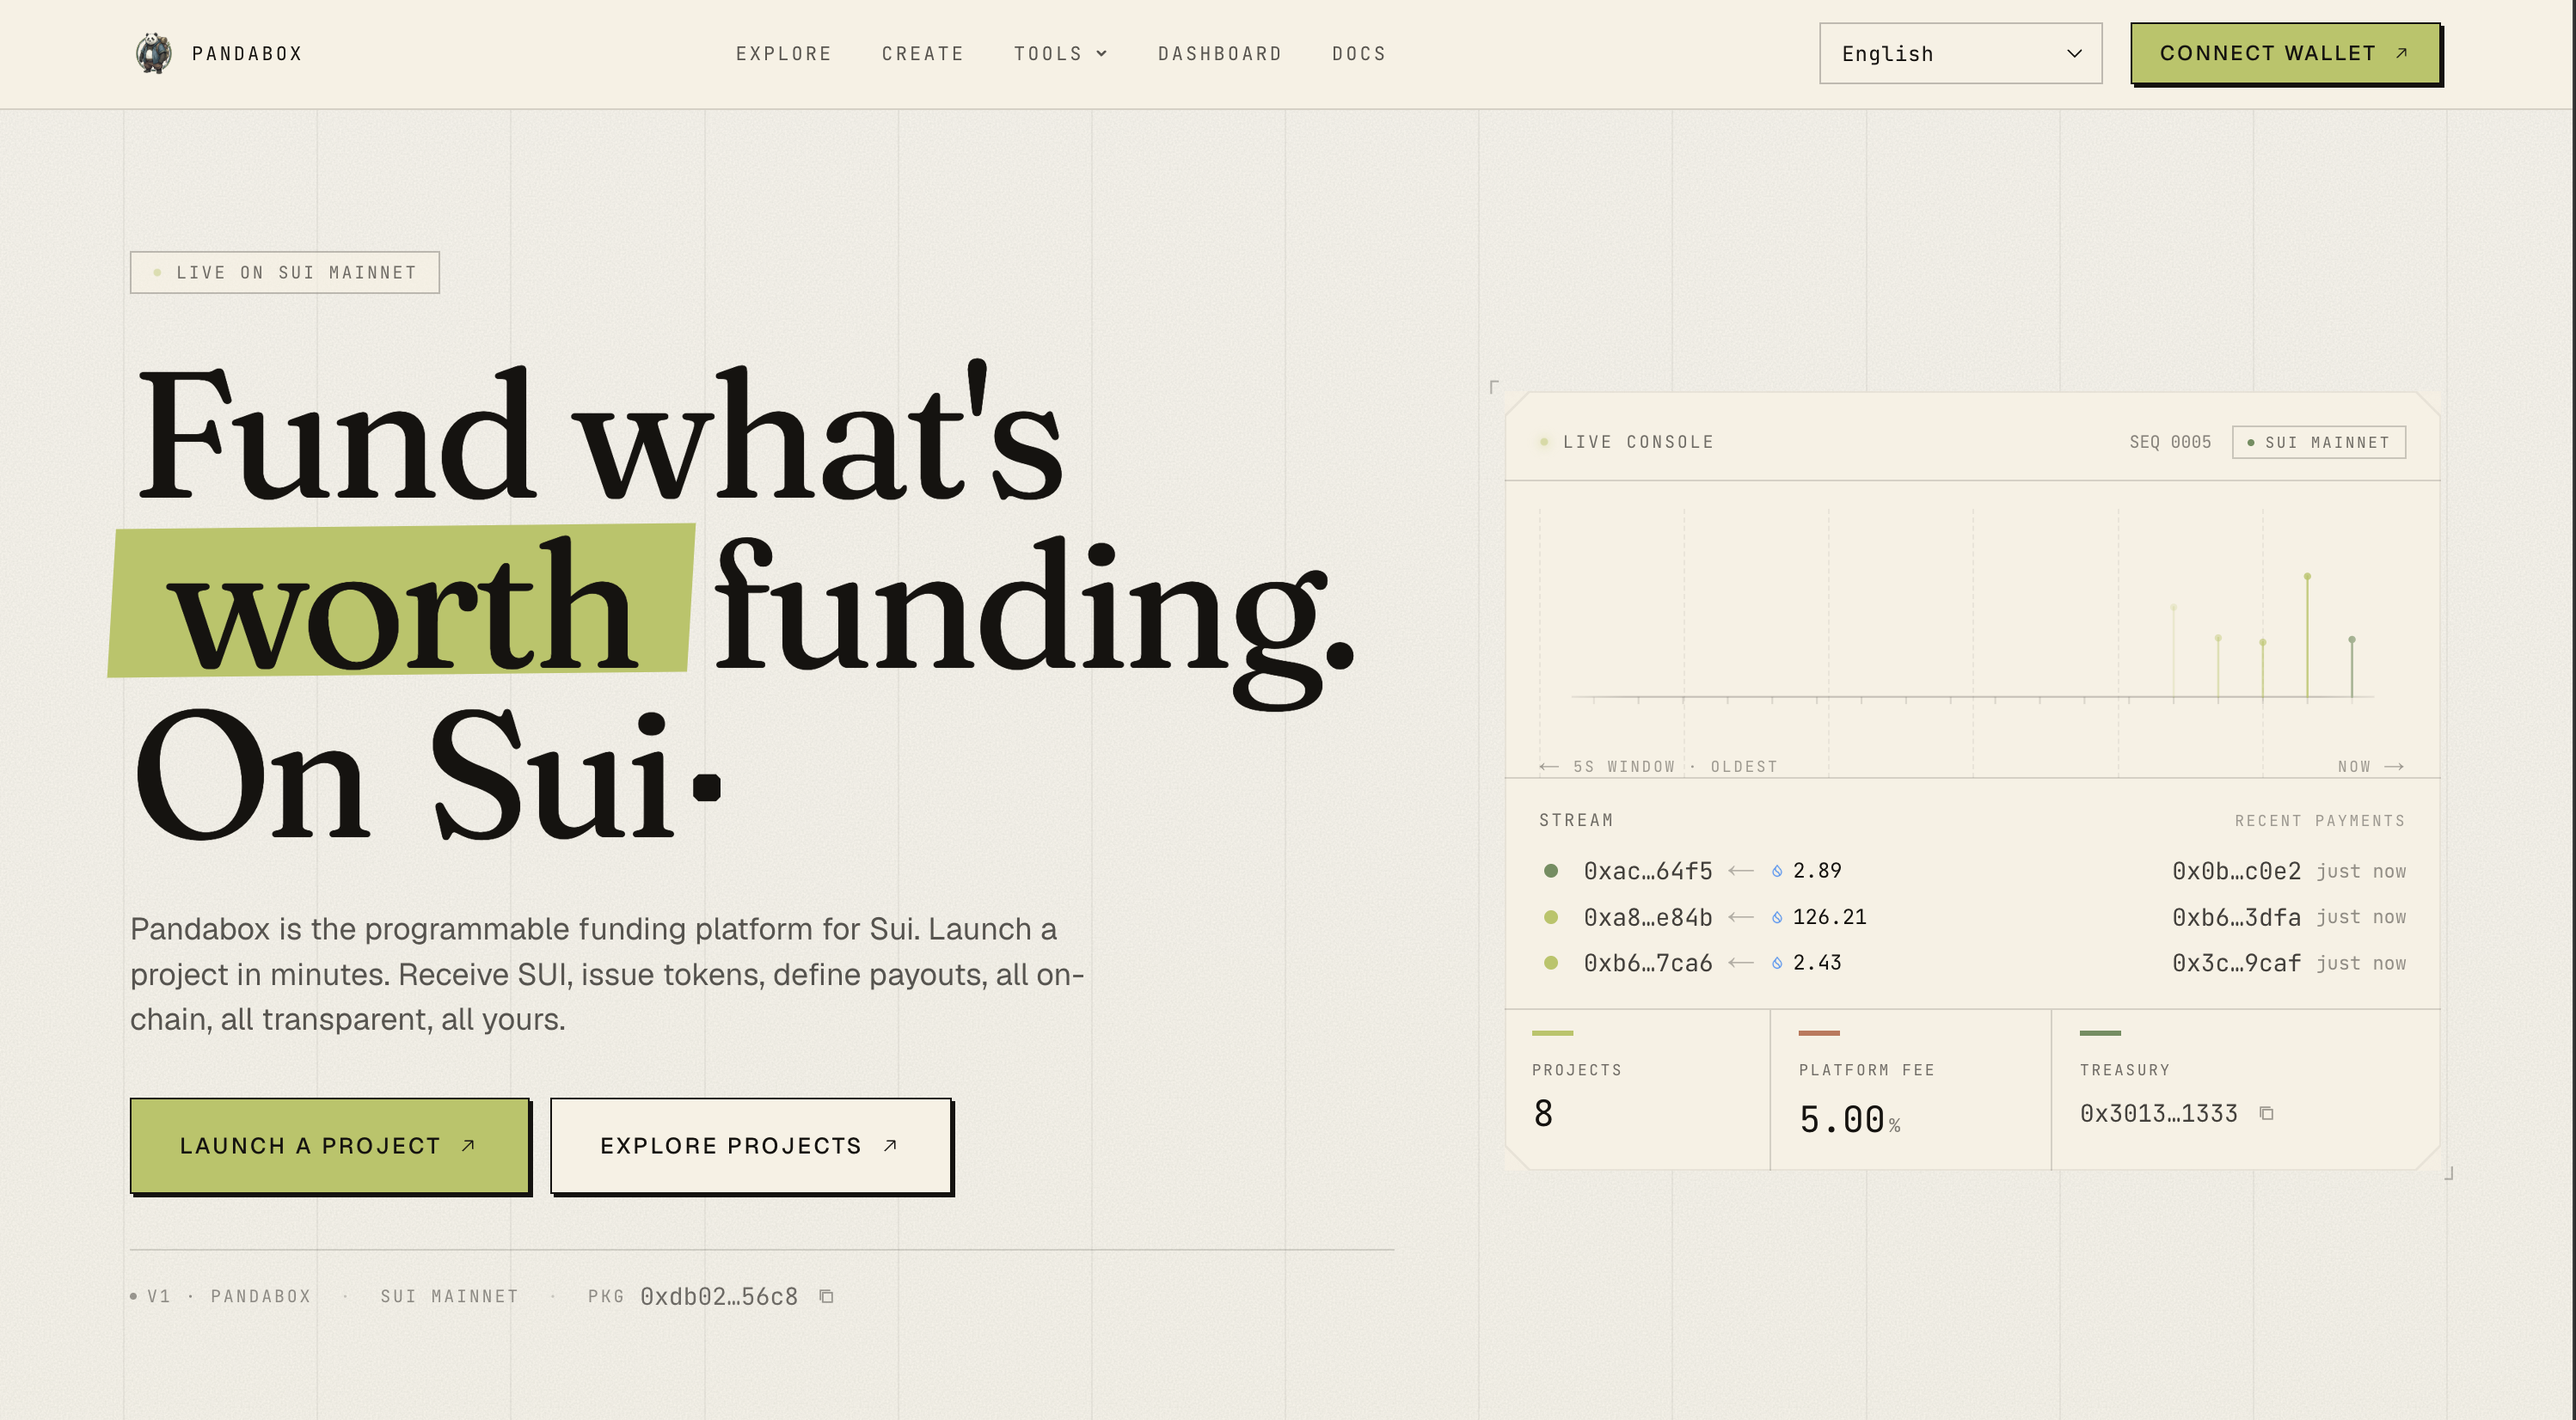
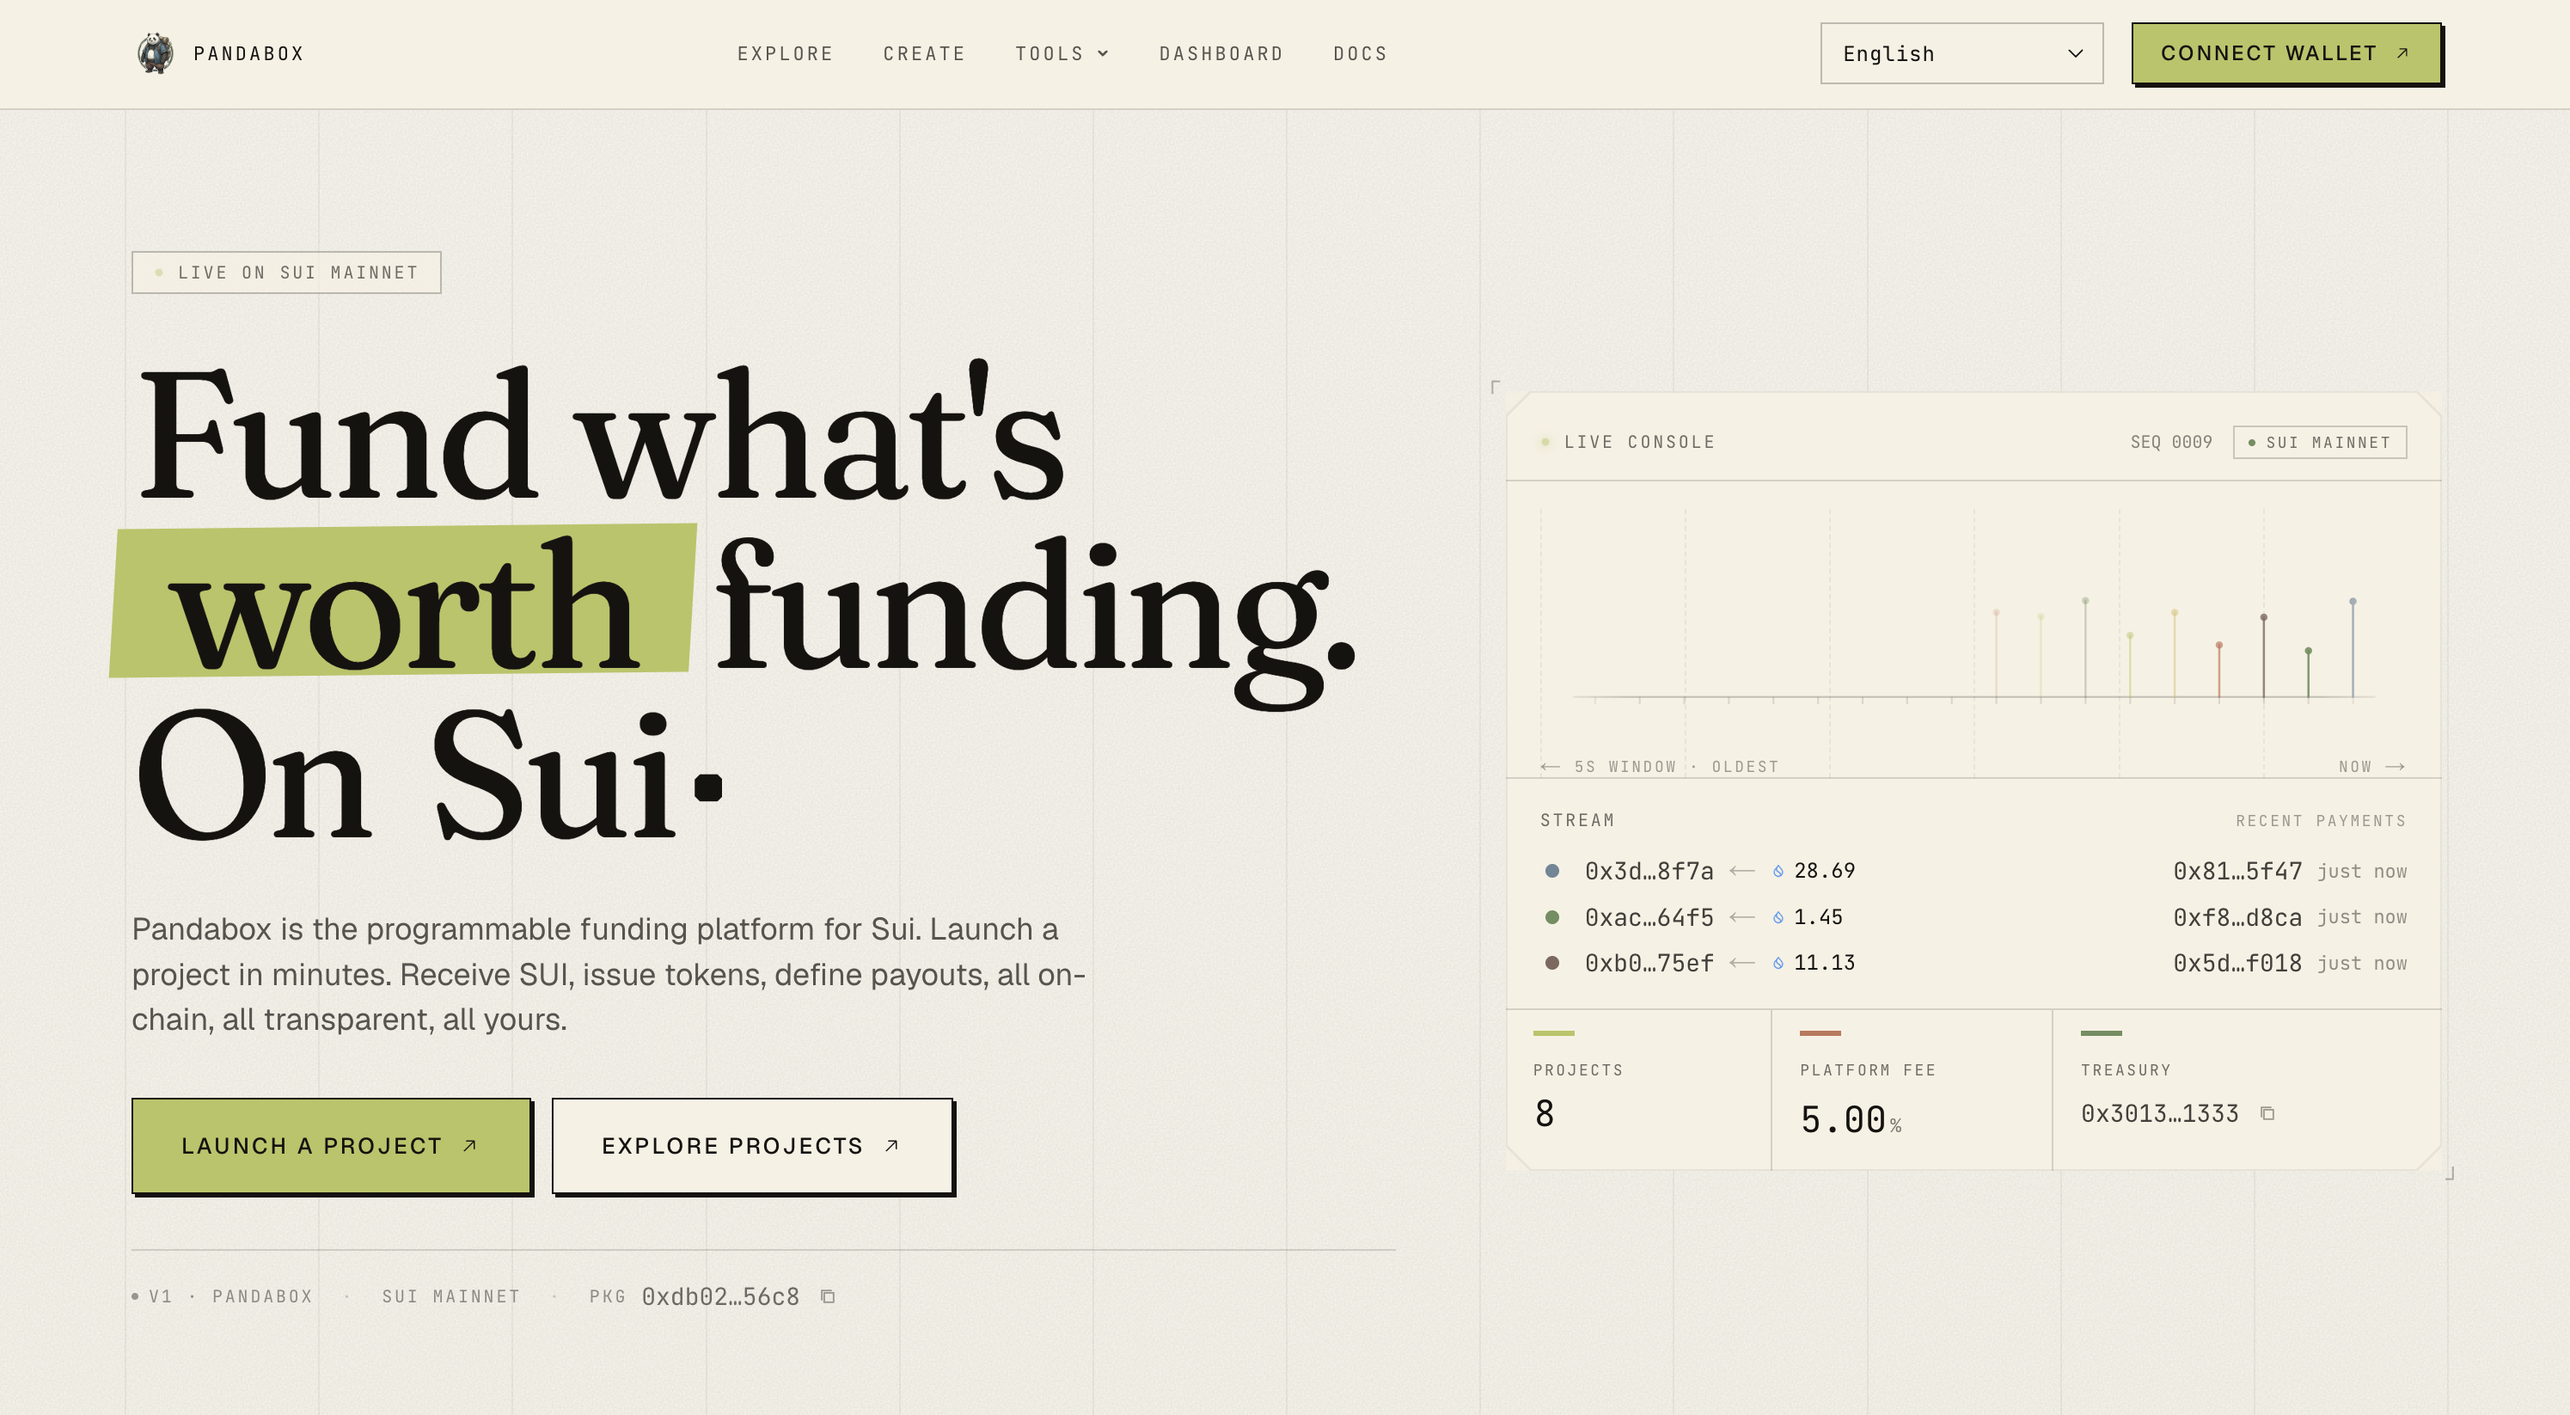
Fix: Updating Projecs

diff --git a/app/utils/data/project.ts b/app/utils/data/project.ts
@@ -37,7 +37,7 @@ export const projects: Project[] = [
     category: "Frontend Engineering · Blockchain",
     year: "2026",
     description:
-      "Pandabox is a programmable, fully on-chain funding launchpad on the Sui Network — Juicebox reimagined for Sui. Creators deploy projects that raise SUI, issue tokens via configurable bonding curves, mint tiered NFT supporter passes, and run on locked funding cycles with on-chain payout splits and treasury cash-outs. Every parameter is on-chain and every action is a Sui programmable transaction block, wrapped in a light-mode-first, engineered-minimal interface.",
+      "Pandabox is a programmable, fully on-chain funding launchpad on the Sui Network, Juicebox reimagined for Sui. Creators deploy projects that raise SUI, issue tokens via configurable bonding curves, mint tiered NFT supporter passes, and run on locked funding cycles with on-chain payout splits and treasury cash-outs. Every parameter is on-chain and every action is a Sui programmable transaction block, wrapped in a light-mode-first, engineered-minimal interface.",
     tech: [
       "Next.js 16",
       "React 19",
@@ -56,7 +56,7 @@ export const projects: Project[] = [
     category: "Frontend Engineering",
     year: "2026",
     description:
-      "A marketing landing page for FlexBoat, a boat rental marketplace within the Flex Super App ecosystem. The page targets boat owners, walking them through the value proposition, vendor onboarding flow, and key platform features — including verified user matching, smart booking management, and flexible earning controls. Includes animated preloader, responsive layout, and CTAs linking to the vendor dashboard and mobile app download",
+      "A marketing landing page for FlexBoat, a boat rental marketplace within the Flex Super App ecosystem. The page targets boat owners, walking them through the value proposition, vendor onboarding flow, and key platform features,including verified user matching, smart booking management, and flexible earning controls. Includes animated preloader, responsive layout, and CTAs linking to the vendor dashboard and mobile app download",
     tech: ["Next.js", "TypeScript", "Tailwind CSS", "Gsap"],
     image: "/images/projects/flex-boat.png",
     link: "https://flex-boat-landing-page.vercel.app/",
@@ -68,7 +68,7 @@ export const projects: Project[] = [
     category: "Frontend Engineering",
     year: "2026",
     description:
-      "The PFP studio for every Sui NFT collection. A free, browser-based identity forge where holders connect their Sui wallet and dress up their NFT with custom backgrounds, frames, badges and tier-gated overlays — then export a finished avatar or a 1500×500 Twitter/X cover. Wallet tiers (Mythic Whale, Whale, Collector, Holder) are derived live from on-chain Random Panda holdings to unlock rarer assets, and the whole landing is a cinematic WebGL 'forge' experience built with React Three Fiber. No signup, no fees, instant download.",
+      "The PFP studio for every Sui NFT collection. A free, browser-based identity forge where holders connect their Sui wallet and dress up their NFT with custom backgrounds, frames, badges and tier-gated overlays, then export a finished avatar or a 1500×500 Twitter/X cover. Wallet tiers (Mythic Whale, Whale, Collector, Holder) are derived live from on-chain Random Panda holdings to unlock rarer assets, and the whole landing is a cinematic WebGL 'forge' experience built with React Three Fiber. No signup, no fees, instant download.",
     tech: [
       "Next.js",
       "TypeScript",
